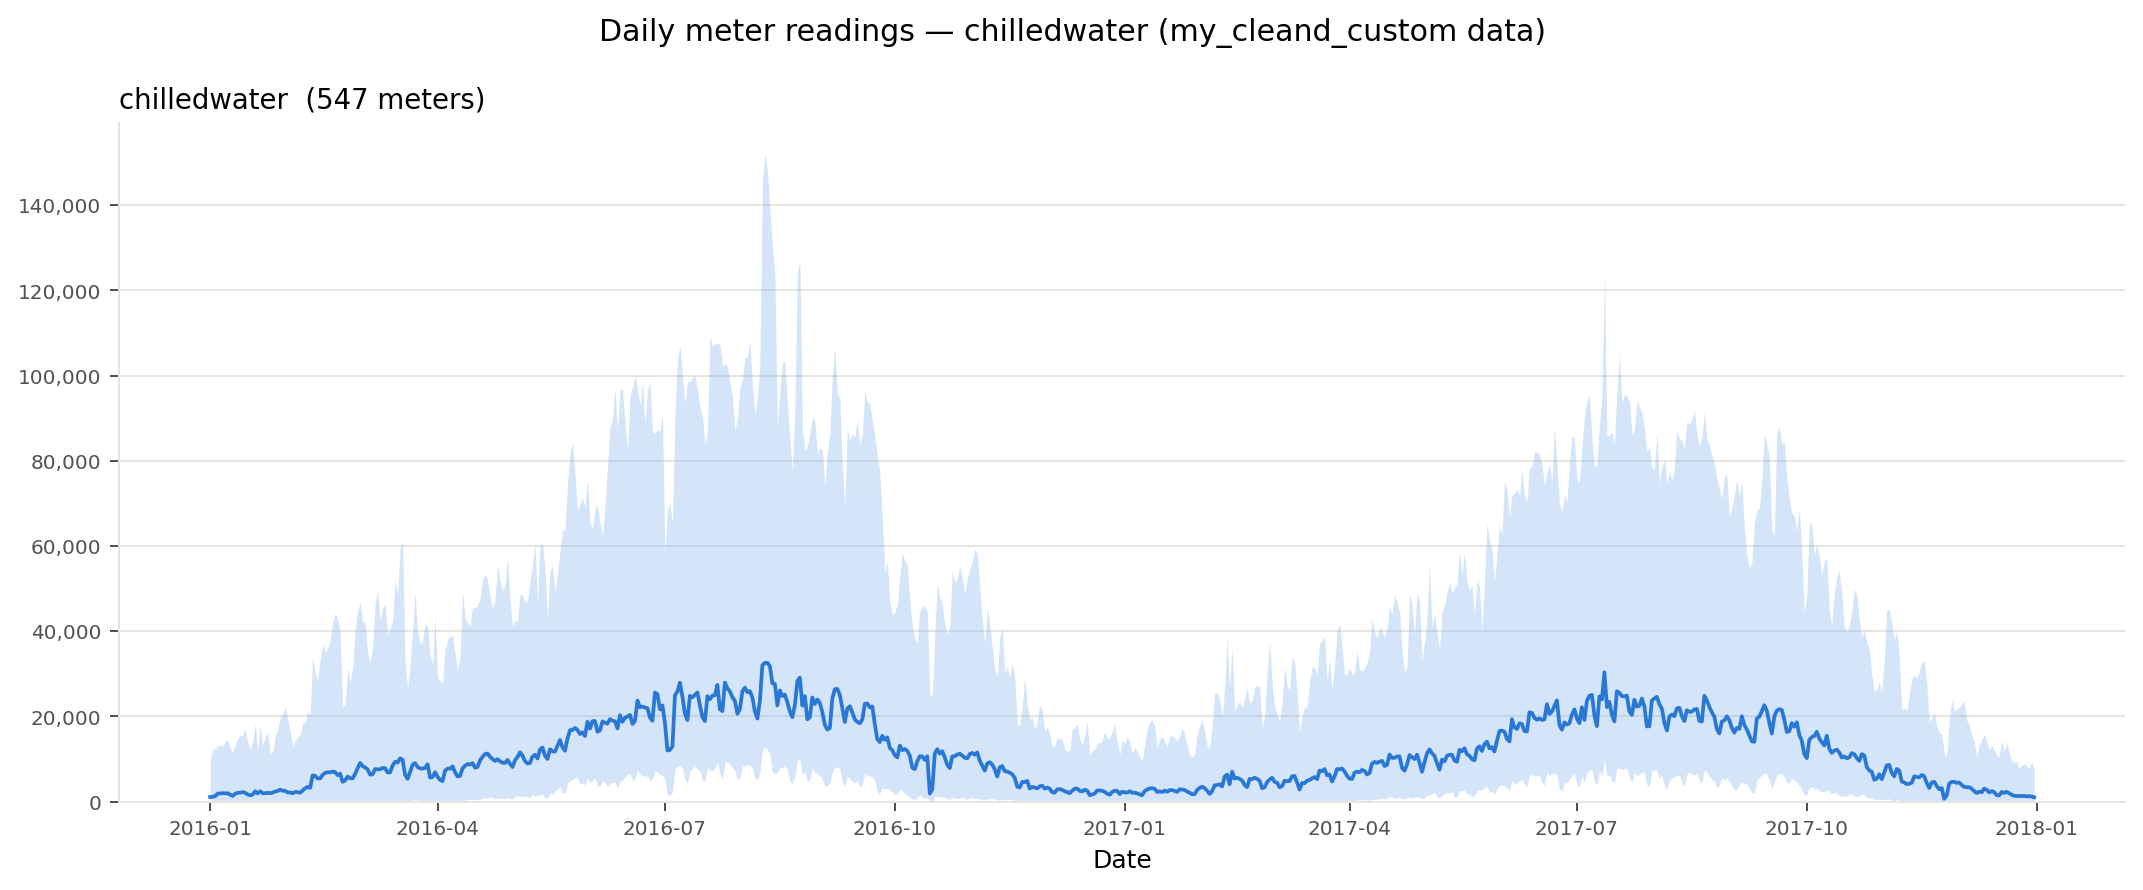
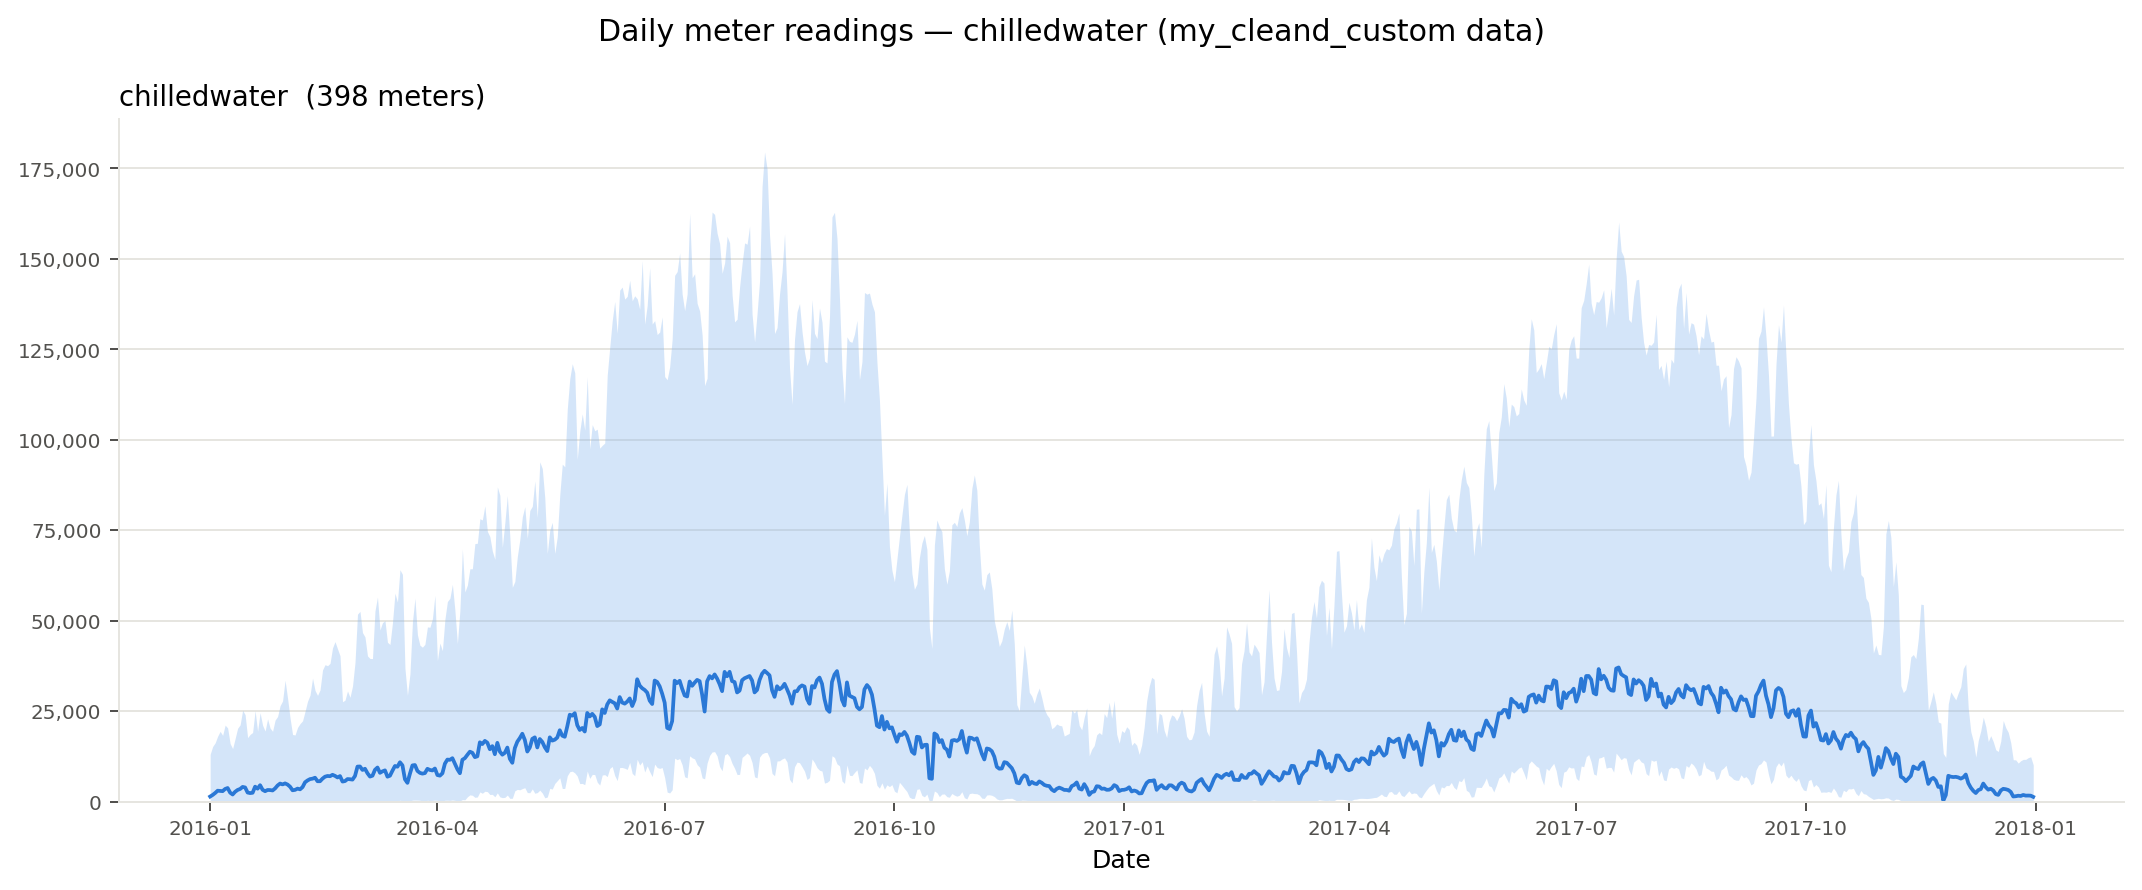
greier

diff --git a/building-data-genome-project-2/data_cleaner_custom/data_cleaner_custom_m.py b/building-data-genome-project-2/data_cleaner_custom/data_cleaner_custom_m.py
@@ -15,7 +15,7 @@ upper_quantile = 0.75
 iqr_multiplier = 1.5
 rolling_window = 720  # 30 days of hourly readings
 min_periods = 24  # allow rolling bounds after one day of readings
-remove_meters_over_missing_threshold = False
+remove_meters_over_missing_threshold = True
 missing_data_threshold = 0.05
 
 
